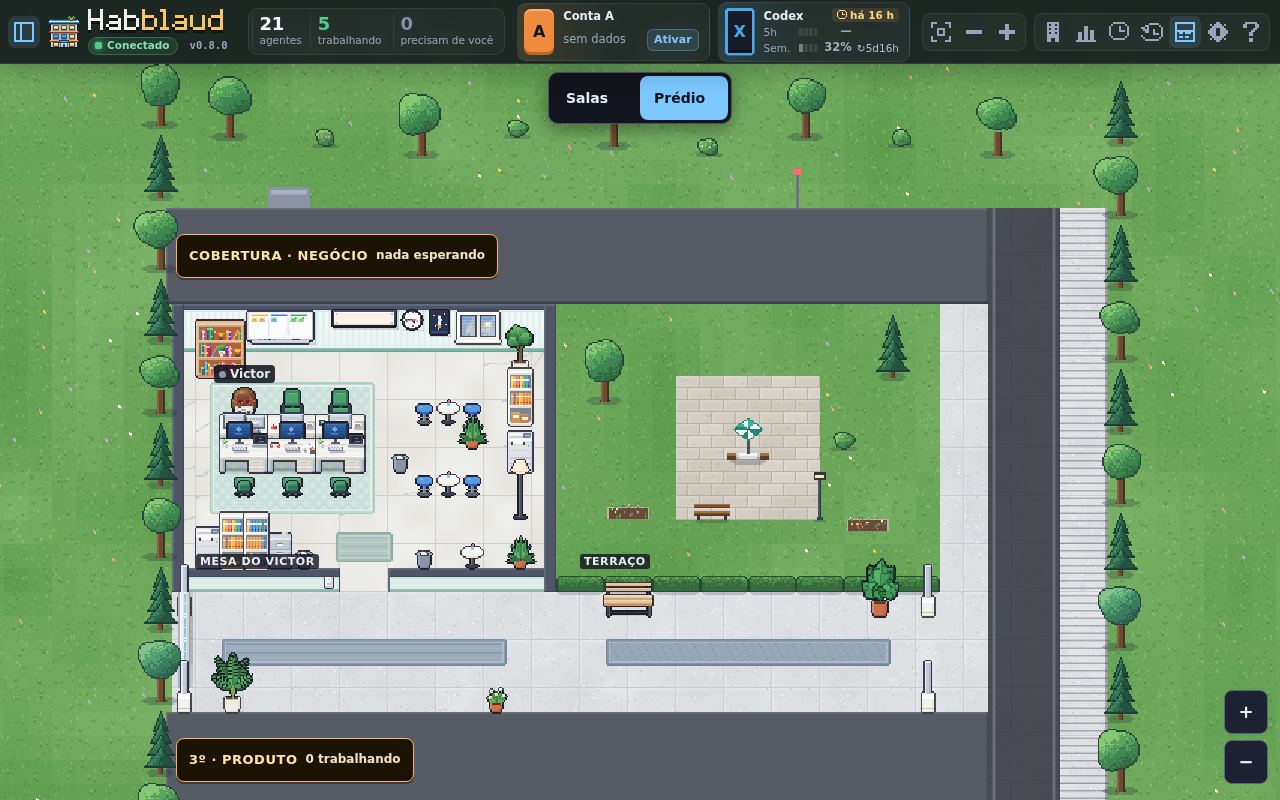
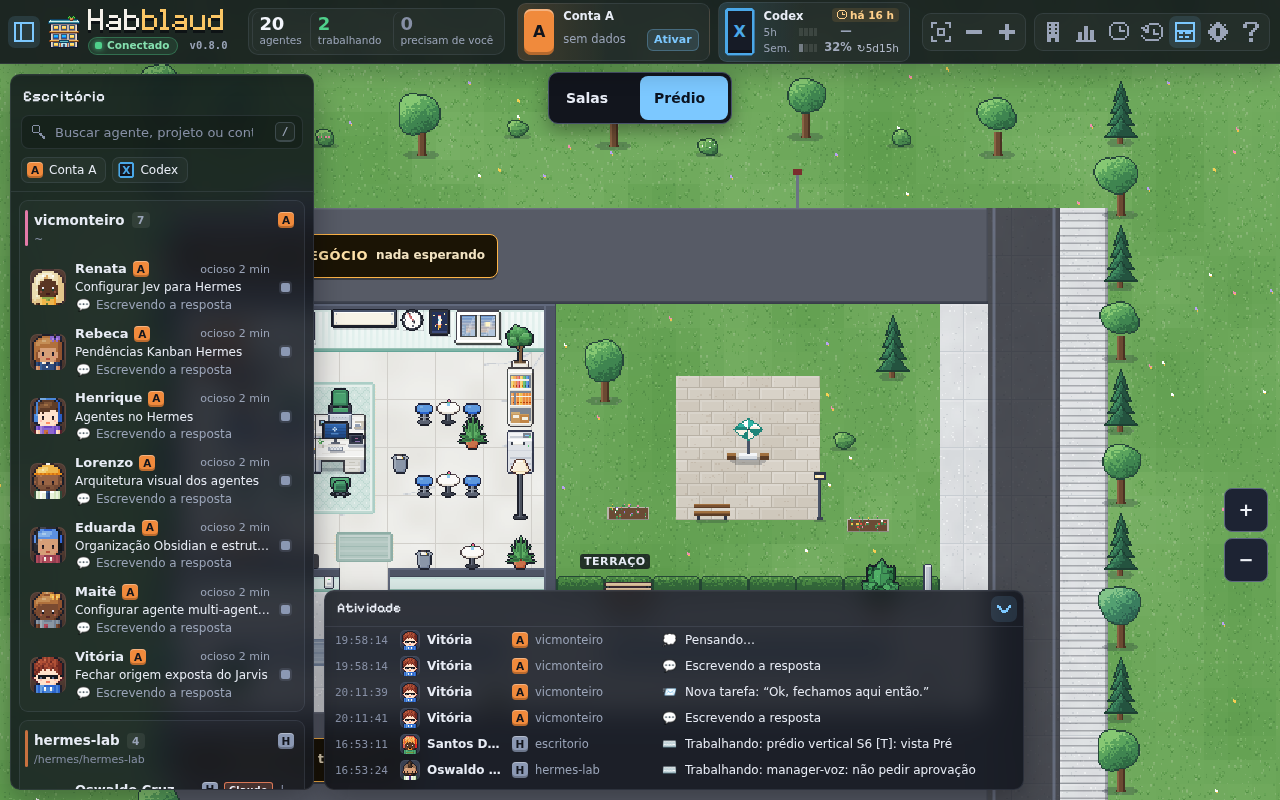
predio-vertical S6: lista, feed e gaveta por cima do Prédio; + / − na área livre; quem sumiu sai mesmo sem snapshot (escritorio t_3e9a1d57)

diff --git a/client/src/predio/vista.ts b/client/src/predio/vista.ts
@@ -97,6 +97,7 @@ export class VistaPredio implements UiComponent {
   private raf = 0;
   private ultimo = 0;
   private ultDesenho = 0;
+  private ultExpirar = 0;
   private semente = 12345;
   private readonly rnd = () => (this.semente = (this.semente * 1103515245 + 12345) >>> 0) / 0xffffffff;
 
@@ -372,6 +373,13 @@ export class VistaPredio implements UiComponent {
     const dt = Math.min(0.1, (agora - this.ultimo) / 1000);
     this.ultimo = agora;
     m.bonecos.passo(dt, agora, m.pf, this.rnd);
+    // Quem sumiu há > 3 s sai mesmo se o servidor parar de mandar snapshot.
+    if (agora - this.ultExpirar >= 1000) {
+      this.ultExpirar = agora;
+      const n = m.bonecos.lista.length;
+      m.bonecos.expirar(agora);
+      if (m.bonecos.lista.length !== n) this.reconciliarCrachas();
+    }
     if (agora - this.ultDesenho < FPS_MS) return;
     this.desenharAgora(agora);
   };

diff --git a/client/src/ui/styles.css b/client/src/ui/styles.css
@@ -8078,7 +8078,9 @@ html.is-replay #world {
   right: 0;
   bottom: 0;
   top: var(--top-h);
-  z-index: 40;
+  /* D1: cobre o mundo (e o .ui-empty, z10), mas lista lateral (20), feed (15), gaveta (20/25), terminal, avisos,
+     configurações e a janela de prédio continuam por cima. */
+  z-index: 13;
   overflow: auto;
   background: #76a35c;
   -webkit-overflow-scrolling: touch;
@@ -8273,11 +8275,11 @@ html.is-replay #world {
   color: #0b1320;
 }
 
-/* + e − no canto de baixo à direita. */
+/* + e − no canto de baixo à direita da área livre (não cobre gaveta nem feed, como os avisos). */
 .pred-zoom {
   position: fixed;
-  right: 12px;
-  bottom: 16px;
+  right: max(12px, var(--free-right));
+  bottom: max(16px, var(--free-bottom));
   z-index: 45;
   display: flex;
   flex-direction: column;
